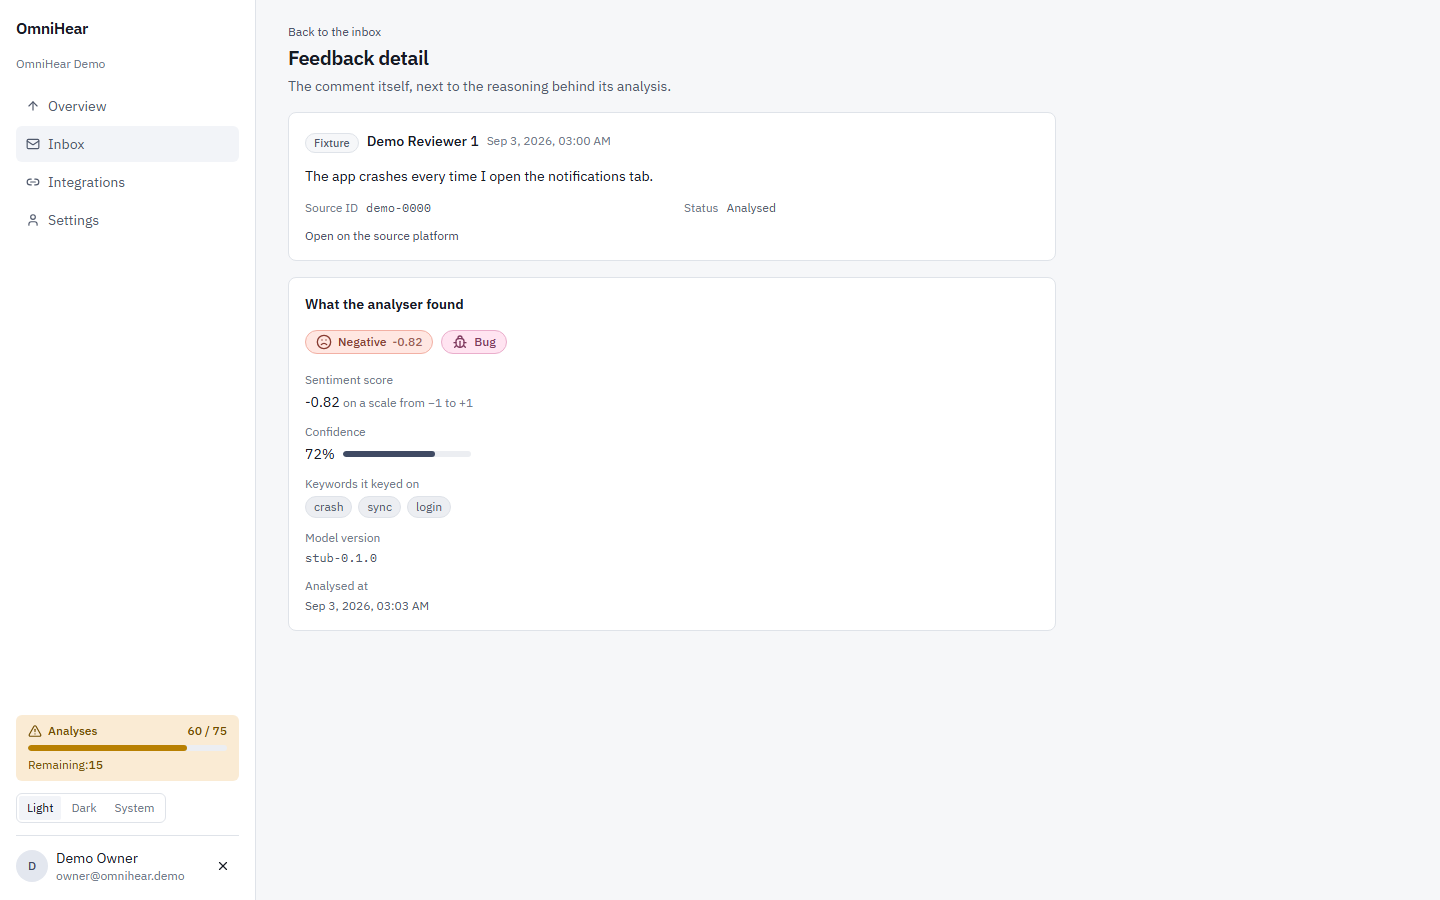
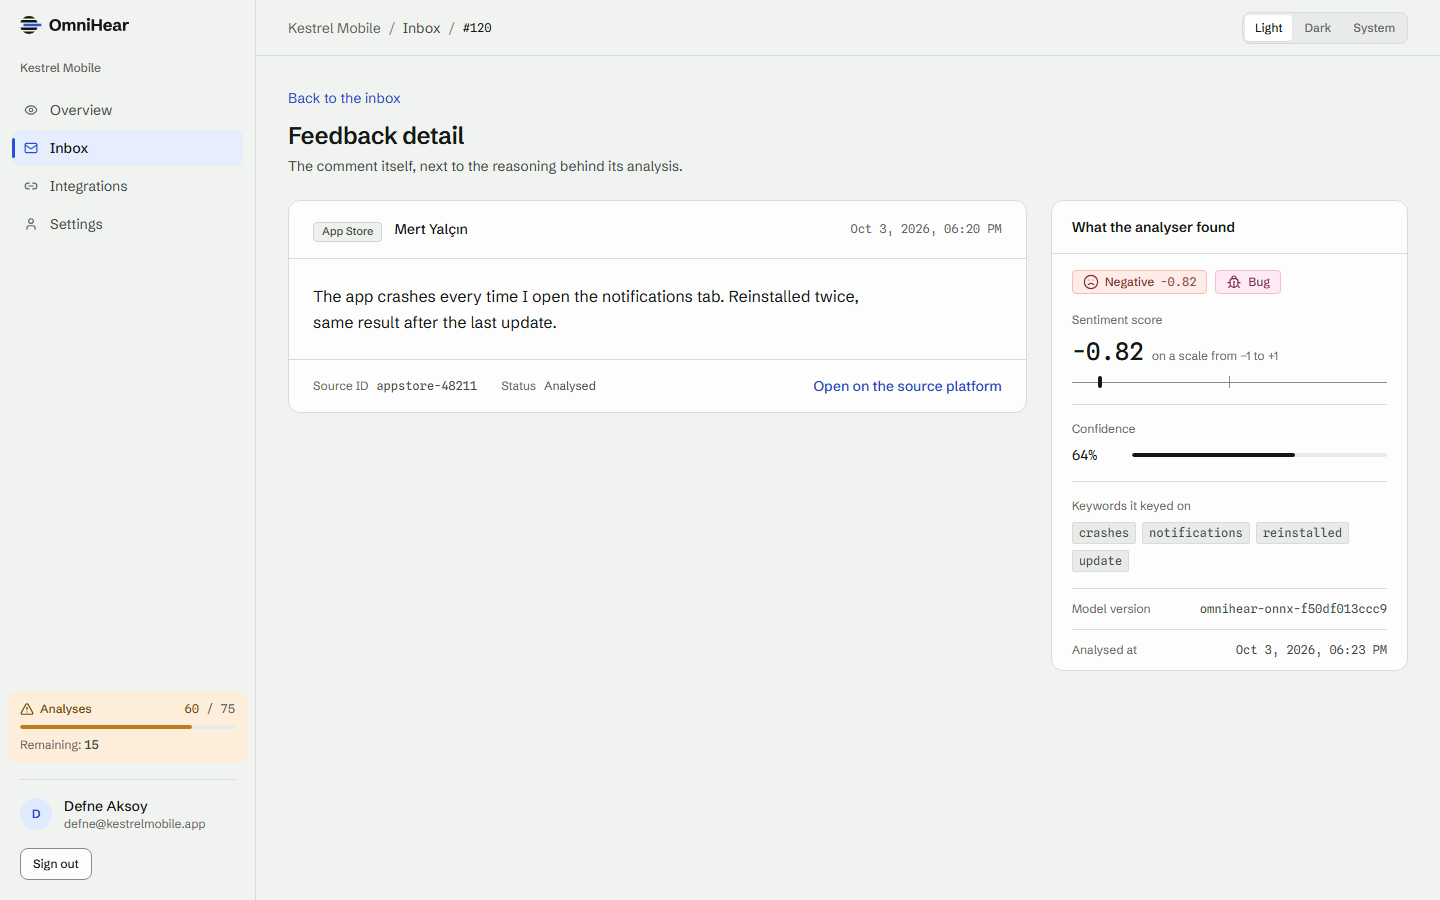
docs: refresh screenshots for the switchboard redesign and update the screens captions

diff --git a/README.tr.md b/README.tr.md
@@ -26,8 +26,9 @@ bütçesinin arkasında lazy yüklenir. Tam diyagram ve veri akışı:
 
 ## Ekranlar
 
-Hepsi çalışan uygulamadan, aşağıda anlatılan demo verisine karşı alındı —
-maket değil.
+Hepsi çalışan frontend'den 1440 px genişlikte, güncel "switchboard"
+kimliğiyle (`docs/BRAND.md`) alındı; API yerine örnek bir şirketin verisi
+sunuldu — maket değil.
 
 **Genel bakış** — KPI kartları, 30 günlük duygu trendi, duygu ve kategori
 dağılımları. Kenar çubuğundaki kota paneli 60/75'te; paywall'ın bir senkron
@@ -52,8 +53,8 @@ kırmızı-yeşil renk körlüğünde okunabilir kalır (ADR-0006).
 
 ![Koyu temada genel bakış](docs/screenshots/overview-dark.png)
 
-**Entegrasyonlar ve açılış sayfası** — kanal başına sağlık durumu gösteren
-bağlantı kartları, ve herkese açık sayfa.
+**Entegrasyonlar ve açılış sayfası** — her bağlantı için sağlık durumu ve son
+senkronu gösteren bir satır, ve herkese açık sayfa.
 
 ![Entegrasyonlar](docs/screenshots/integrations.png)
 ![Açılış sayfası](docs/screenshots/landing.png)

diff --git a/README.md b/README.md
@@ -24,8 +24,9 @@ initial bundle budget. Full diagram and data flow: **`docs/ARCHITECTURE.md`**.
 
 ## Screens
 
-All captured from the running application against the demo seed described
-below — not mockups.
+All captured from the running frontend at 1440 px, in the current
+"switchboard" identity (`docs/BRAND.md`), with a sample company's data served
+in place of the API — not mockups.
 
 **Overview** — KPI cards, the 30-day sentiment trend, and the sentiment and
 category breakdowns. The quota panel in the sidebar is at 60/75, which is why
@@ -50,8 +51,8 @@ readable in both themes and for red-green colour blindness (ADR-0006).
 
 ![Overview in dark theme](docs/screenshots/overview-dark.png)
 
-**Integrations and landing** — the connection cards with per-channel health,
-and the public page.
+**Integrations and landing** — one row per connection with its health and
+last sync, and the public page.
 
 ![Integrations](docs/screenshots/integrations.png)
 ![Landing](docs/screenshots/landing.png)
